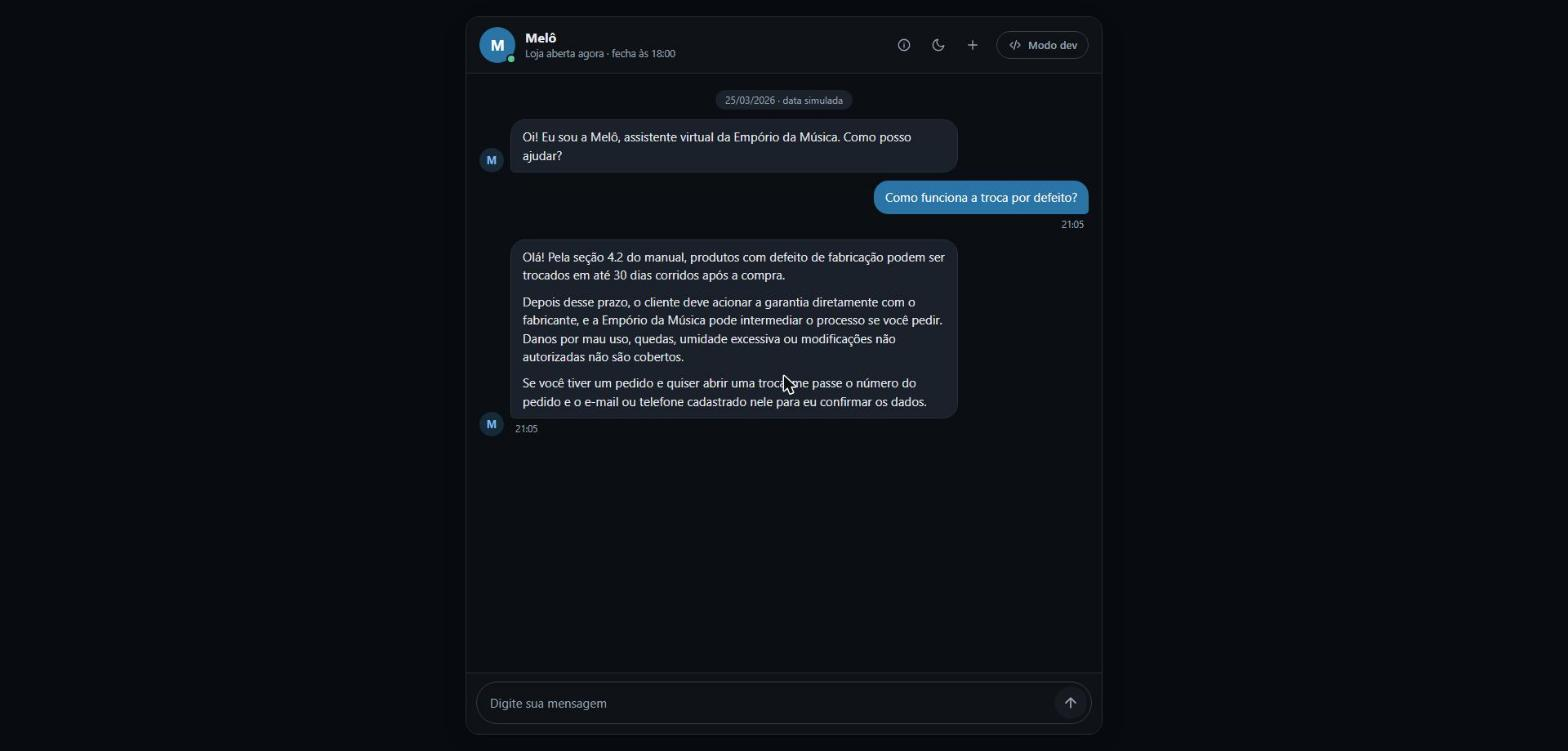
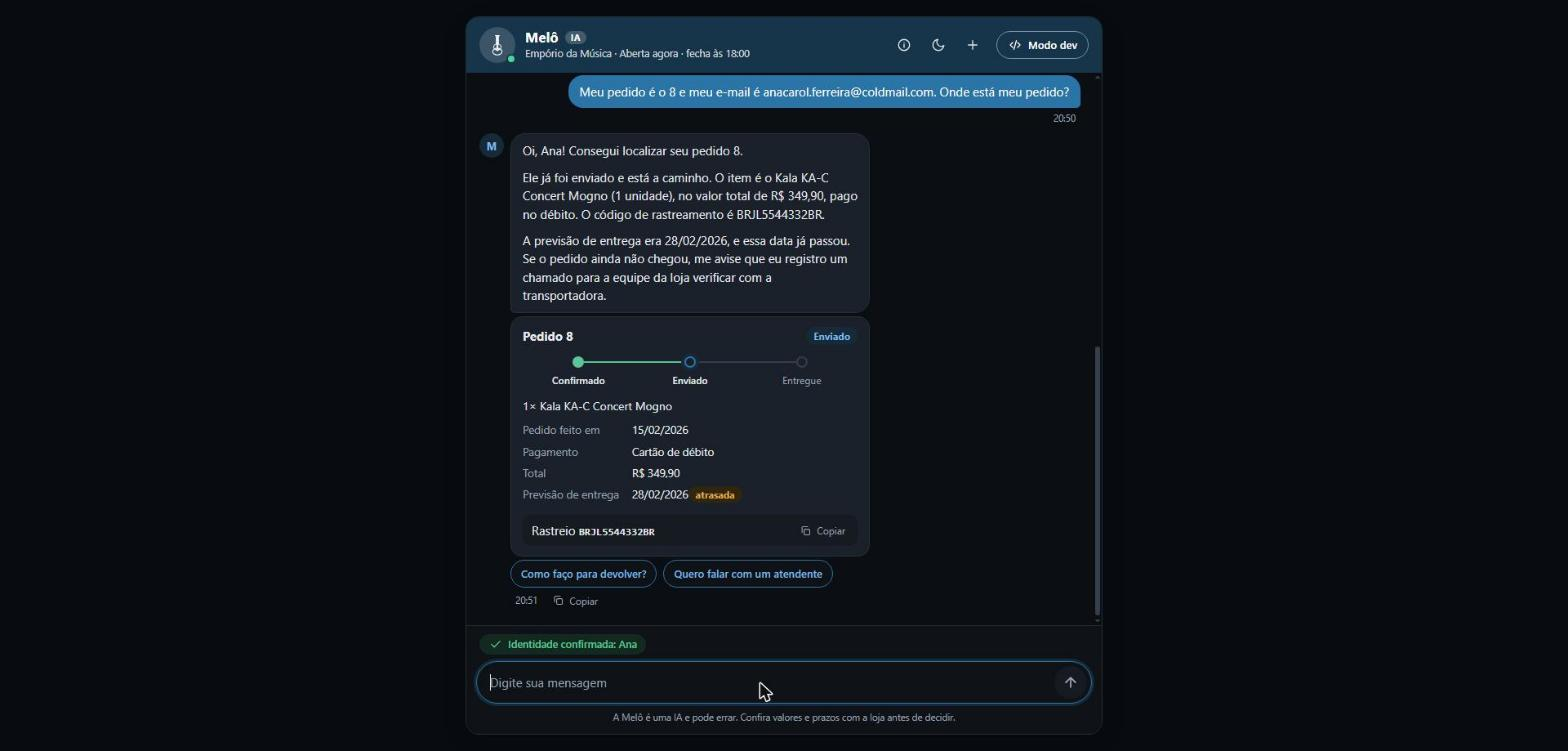
docs: retake the interface screenshots after spec 22

Changed region(s): [[0.2812, 0.0, 0.7188, 0.7963], [0.3125, 0.8269, 0.6875, 0.98], [0.6875, 0.49, 0.7188, 0.7963]]

diff --git a/.specs/emporio-agent/progress.md b/.specs/emporio-agent/progress.md
@@ -212,7 +212,7 @@
 - Answers carry cards drawn from the tool results: product (list price struck through only under a promotion, discount, installment, PIX line, stock), a short product list, the order with its three steps and a copy button for the tracking code, the ticket and the manual sections used. Follow-up questions appear under the last answer. A list that only repeats a product card is dropped.
 - The card logic is a pure file (cards.js) tested from pytest through Node with the real tool results (19 tests; skipped when Node is missing, CI has it). The browser formats the numbers it receives and computes none.
 - /loja is a fictional store page with the chat as a widget in an iframe of the same origin; for that the CSP of the pages changed from frame-ancestors none to self.
-- Checked in Chrome (dark theme): welcome screen, product answer, order answer with a late estimate, the widget. Not checked on a real phone; the screenshots in docs/ are retaken in the README spec.
+- Checked in Chrome in both themes: welcome screen, product answer, order answer with a late estimate, developer mode, the widget on /loja, no console errors. Not checked on a real phone. The three screenshots in docs/ were retaken with the new interface.
 
 ---
 
